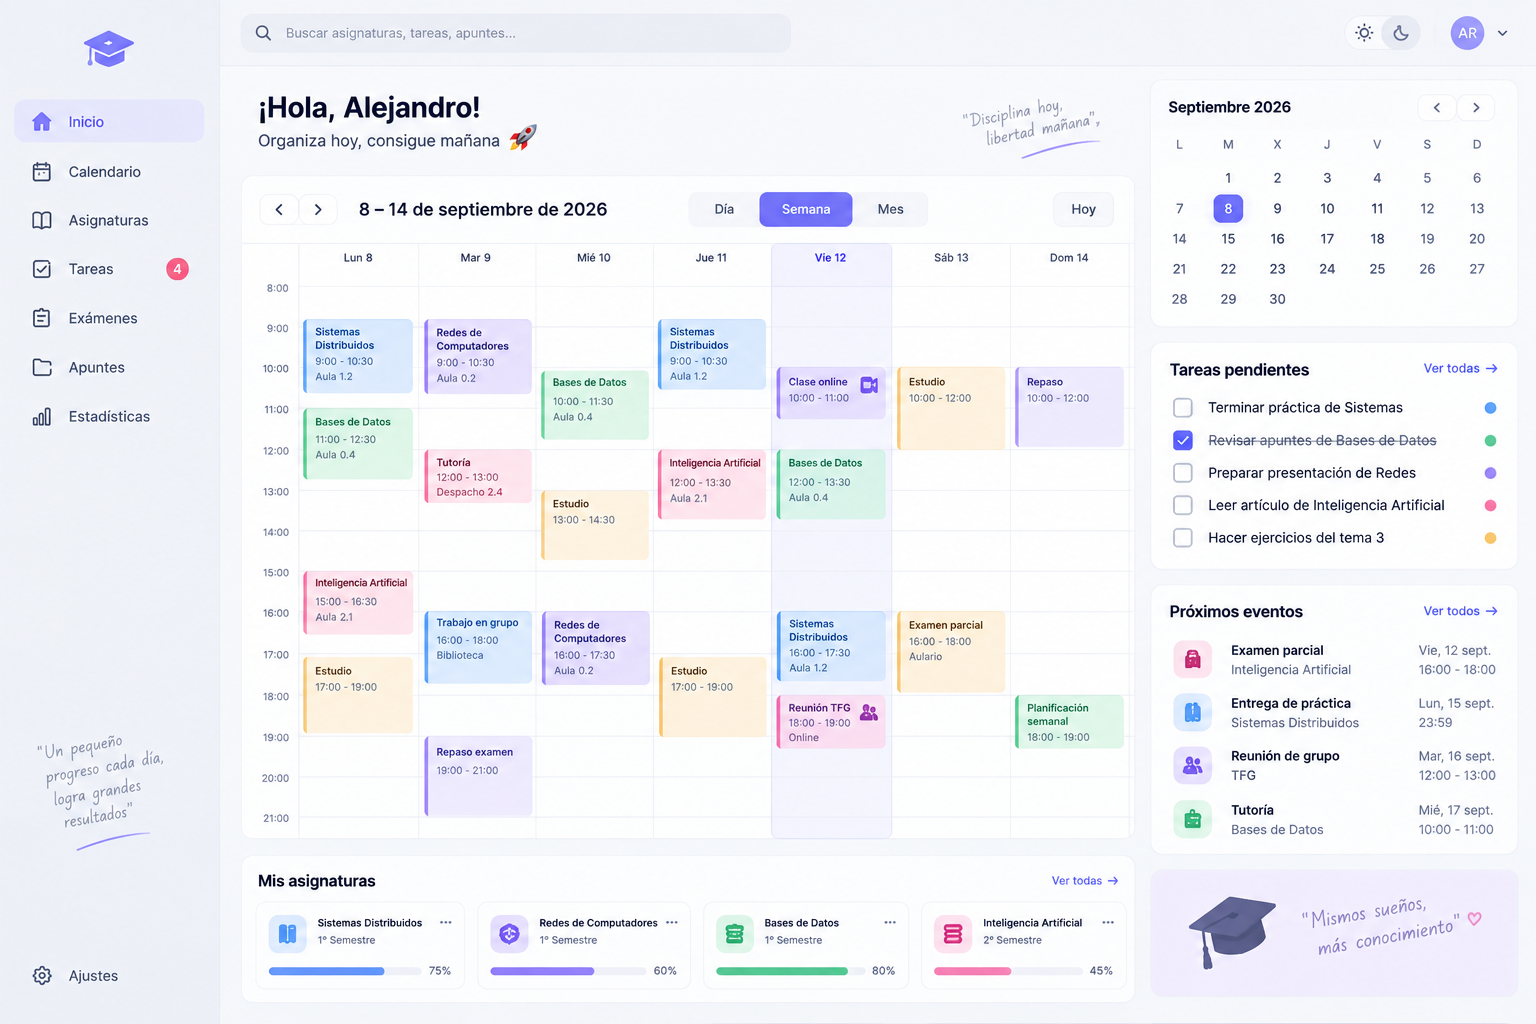
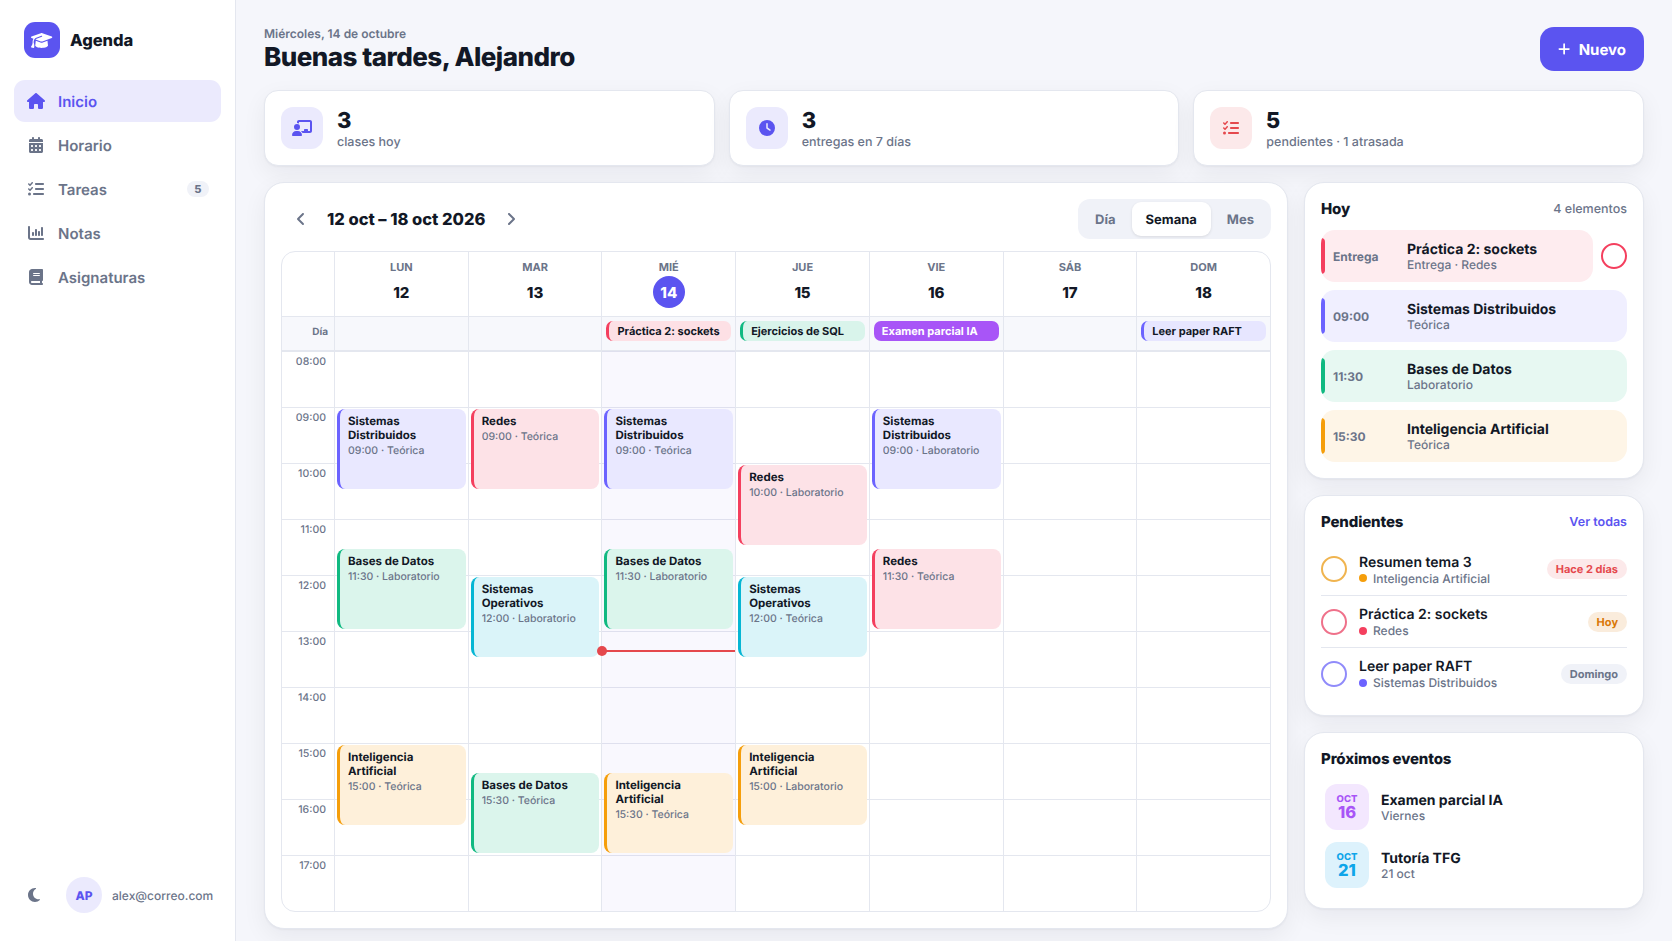
Añade Savia y Yincana PC, vídeos y mejoras del carrusel

diff --git a/index.html b/index.html
@@ -693,6 +693,22 @@
 
                 <div class="mi-project-card ticket-sales-container featured-project-card">
                     <div class="banner-image-container">
+                        <img src="images/savia.png" alt="Savia" loading="lazy">
+                    </div>
+                    <h5 class="mt-1">Savia</h5>
+                    <span class="project-badge"><i class="fa-solid fa-star" aria-hidden="true"></i> Proyecto destacado</span>
+                    <p class="mb-1">Aplicación web progresiva para gestionar las finanzas personales, incluso sin conexión.</p>
+                    <p class="project-date mb-1">2026 - 2026</p>
+                    <div class="featured-tech-list" aria-label="Tecnologías principales de Savia">
+                        <span><i class="fa-brands fa-angular" aria-hidden="true"></i> Angular</span>
+                        <span><i class="fa-solid fa-code" aria-hidden="true"></i> TypeScript</span>
+                        <span><i class="fa-solid fa-fire" aria-hidden="true"></i> Firebase</span>
+                    </div>
+                    <button class="project-info-button" type="button" data-bs-toggle="modal" data-bs-target="#saviaModal"><i class="fa-solid fa-up-right-from-square" aria-hidden="true"></i> Más info</button>
+                </div>
+
+                <div class="mi-project-card ticket-sales-container featured-project-card">
+                    <div class="banner-image-container">
                         <img src="images/balance.png" alt="Pareja Balance" loading="lazy">
                     </div>
                     <h5 class="mt-1">Pareja Balance</h5>
@@ -707,21 +723,6 @@
                     <button class="project-info-button" type="button" data-bs-toggle="modal" data-bs-target="#balanceModal"><i class="fa-solid fa-up-right-from-square" aria-hidden="true"></i> Más info</button>
                 </div>
 
-                <div class="mi-project-card ticket-sales-container featured-project-card">
-                    <div class="banner-image-container">
-                        <img src="images/agenda.png" alt="Agenda Académica" loading="lazy">
-                    </div>
-                    <h5 class="mt-1">Agenda Académica</h5>
-                    <span class="project-badge project-badge-personal"><i class="fa-solid fa-lightbulb" aria-hidden="true"></i> Proyecto personal</span>
-                    <p class="mb-1">Aplicación web progresiva diseñada para gestionar la vida académica.</p>
-                    <p class="project-date mb-1">2025 - 2025</p>
-                    <div class="featured-tech-list" aria-label="Tecnologías principales de Agenda Académica">
-                        <span><i class="fa-solid fa-code" aria-hidden="true"></i> TypeScript</span>
-                        <span><i class="fa-brands fa-react" aria-hidden="true"></i> Next.js</span>
-                        <span><i class="fa-solid fa-fire" aria-hidden="true"></i> Firebase</span>
-                    </div>
-                    <button class="project-info-button" type="button" data-bs-toggle="modal" data-bs-target="#agendaModal"><i class="fa-solid fa-up-right-from-square" aria-hidden="true"></i> Más info</button>
-                </div>
             </div>
 
             <div class="portfolio-group portfolio-group-secondary">
@@ -732,6 +733,40 @@
 
                 <div class="mi-carousel-container" data-carousel="projects">
                     <div class="mi-carousel-track" id="miCarouselTrack">
+                    <div class="mi-carousel-item">
+                        <div class="mi-project-card ticket-sales-container">
+                            <div class="banner-image-container">
+                                <img src="images/yincana-pc-portfolio.png" alt="Yincana PC" loading="lazy">
+                            </div>
+                            <h5 class="mt-1">Yincana PC</h5>
+                            <span class="project-badge project-badge-personal"><i class="fa-solid fa-lightbulb" aria-hidden="true"></i> Proyecto personal</span>
+                            <p class="project-description mb-1">Aplicación web progresiva para gestionar yincanas de informática.</p>
+                            <p class="project-date mb-1">2026 - 2026</p>
+                            <div class="featured-tech-list" aria-label="Tecnologías principales de Yincana PC">
+                                <span><i class="fa-brands fa-angular" aria-hidden="true"></i> Angular</span>
+                                <span><i class="fa-solid fa-code" aria-hidden="true"></i> TypeScript</span>
+                                <span><i class="fa-solid fa-fire" aria-hidden="true"></i> Firebase</span>
+                            </div>
+                            <button class="project-info-button" type="button" data-bs-toggle="modal" data-bs-target="#yincanaModal"><i class="fa-solid fa-up-right-from-square" aria-hidden="true"></i> Más info</button>
+                        </div>
+                    </div>
+                    <div class="mi-carousel-item">
+                        <div class="mi-project-card ticket-sales-container">
+                            <div class="banner-image-container">
+                                <img src="images/agenda.png" alt="Agenda Académica" loading="lazy">
+                            </div>
+                            <h5 class="mt-1">Agenda Académica</h5>
+                            <span class="project-badge project-badge-personal"><i class="fa-solid fa-lightbulb" aria-hidden="true"></i> Proyecto personal</span>
+                            <p class="project-description mb-1">Aplicación web progresiva diseñada para gestionar la vida académica.</p>
+                            <p class="project-date mb-1">2025 - 2025</p>
+                            <div class="featured-tech-list" aria-label="Tecnologías principales de Agenda Académica">
+                                <span><i class="fa-solid fa-code" aria-hidden="true"></i> TypeScript</span>
+                                <span><i class="fa-brands fa-react" aria-hidden="true"></i> Next.js</span>
+                                <span><i class="fa-solid fa-fire" aria-hidden="true"></i> Firebase</span>
+                            </div>
+                            <button class="project-info-button" type="button" data-bs-toggle="modal" data-bs-target="#agendaModal"><i class="fa-solid fa-up-right-from-square" aria-hidden="true"></i> Más info</button>
+                        </div>
+                    </div>
                     <div class="mi-carousel-item">
                         <div class="mi-project-card ticket-sales-container">
                             <div class="banner-image-container">
@@ -1271,7 +1306,43 @@
                         <span><i class="fa-solid fa-network-wired" aria-hidden="true"></i> IoT</span>
                     </div>
                     <h4>Enlaces</h4>
-                    <p class="mb-0">Por privacidad de la empresa, no se puede publicar ni facilitar acceso al proyecto.</p>
+                    <p>Por privacidad de la empresa, no se puede publicar ni facilitar acceso al proyecto.</p>
+                    <p>El vídeo presenta una demostración independiente, sin mostrar contenido de la empresa.</p>
+                    <div class="modal-link-list">
+                        <a href="https://youtu.be/oPxf_APcXtI" target="_blank" rel="noopener noreferrer"><i class="fa-brands fa-youtube" aria-hidden="true"></i> Ver vídeo</a>
+                    </div>
+                </div>
+            </div>
+        </div>
+    </div>
+
+    <div class="modal fade project-modal" id="saviaModal" tabindex="-1" aria-labelledby="saviaModalLabel" aria-hidden="true">
+        <div class="modal-dialog modal-dialog-centered modal-lg">
+            <div class="modal-content">
+                <div class="modal-header">
+                    <h3 class="modal-title" id="saviaModalLabel">Savia</h3>
+                    <button type="button" class="btn-close" data-bs-dismiss="modal" aria-label="Cerrar"></button>
+                </div>
+                <div class="modal-body">
+                    <img class="project-modal-image" src="images/savia.png" alt="Savia" loading="lazy">
+                    <p>Aplicación web progresiva para gestionar las finanzas personales, incluso sin conexión.</p>
+                    <p>Savia permite organizar cuentas y tarjetas, registrar ingresos y gastos por categorías, definir objetivos de ahorro y gestionar movimientos recurrentes. Incluye estadísticas, conciliación e importación de datos desde Money Pro en CSV y PDF.</p>
+                    <p>Está desarrollada con Angular y TypeScript, con Firebase Authentication para el acceso, Cloud Firestore para la persistencia y Firebase Hosting para el despliegue. También permite registrar pagos de Apple Pay mediante Atajos de iOS y ofrece un modo demo con datos locales en el navegador.</p>
+                    <p>2026 - 2026</p>
+                    <h4>Tecnología</h4>
+                    <div class="modal-tech-list">
+                        <span><i class="fa-brands fa-angular" aria-hidden="true"></i> Angular</span>
+                        <span><i class="fa-solid fa-code" aria-hidden="true"></i> TypeScript</span>
+                        <span><i class="fa-solid fa-fire" aria-hidden="true"></i> Firebase Authentication</span>
+                        <span><i class="fa-solid fa-database" aria-hidden="true"></i> Cloud Firestore</span>
+                        <span><i class="fa-solid fa-cloud" aria-hidden="true"></i> Firebase Hosting</span>
+                        <span><i class="fa-solid fa-mobile-screen-button" aria-hidden="true"></i> PWA</span>
+                    </div>
+                    <h4>Enlaces</h4>
+                    <div class="modal-link-list">
+                        <a href="https://github.com/AlejandroRodriguez1998/SaviaFinance" target="_blank" rel="noopener noreferrer"><i class="fa-brands fa-github" aria-hidden="true"></i> Ver proyecto</a>
+                        <a href="https://youtu.be/7rrPFDsX_w0" target="_blank" rel="noopener noreferrer"><i class="fa-brands fa-youtube" aria-hidden="true"></i> Ver vídeo</a>
+                    </div>
                 </div>
             </div>
         </div>
@@ -1298,12 +1369,13 @@
                         <span><i class="fa-solid fa-fire" aria-hidden="true"></i> Firebase</span>
                         <span><i class="fa-solid fa-database" aria-hidden="true"></i> BBDD</span>
                         <span><i class="fa-solid fa-cloud" aria-hidden="true"></i> Vercel</span>
-                        <span><i class="fa-solid fa-mobile-screen" aria-hidden="true"></i> PWA</span>
+                        <span><i class="fa-solid fa-mobile-screen-button" aria-hidden="true"></i> PWA</span>
                     </div>
                     <h4>Enlaces</h4>
                     <div class="modal-link-list">
                         <a href="https://pareja-balance.vercel.app" target="_blank" rel="noopener noreferrer"><i class="fa-solid fa-globe" aria-hidden="true"></i> Tour aplicación</a>
                         <a href="https://github.com/AlejandroRodriguez1998/pareja-balance" target="_blank" rel="noopener noreferrer"><i class="fa-brands fa-github" aria-hidden="true"></i> Ver proyecto</a>
+                        <a href="https://youtu.be/w7O9V1EHk0k" target="_blank" rel="noopener noreferrer"><i class="fa-brands fa-youtube" aria-hidden="true"></i> Ver vídeo</a>
                     </div>
                 </div>
             </div>
@@ -1331,12 +1403,46 @@
                         <span><i class="fa-solid fa-fire" aria-hidden="true"></i> Firebase</span>
                         <span><i class="fa-solid fa-database" aria-hidden="true"></i> BBDD</span>
                         <span><i class="fa-solid fa-cloud" aria-hidden="true"></i> Vercel</span>
-                        <span><i class="fa-solid fa-mobile-screen" aria-hidden="true"></i> PWA</span>
+                        <span><i class="fa-solid fa-mobile-screen-button" aria-hidden="true"></i> PWA</span>
                     </div>
                     <h4>Enlaces</h4>
                     <div class="modal-link-list">
                         <a href="https://agenda-topaz-two.vercel.app" target="_blank" rel="noopener noreferrer"><i class="fa-solid fa-globe" aria-hidden="true"></i> Tour aplicación</a>
                         <a href="https://github.com/AlejandroRodriguez1998/Agenda" target="_blank" rel="noopener noreferrer"><i class="fa-brands fa-github" aria-hidden="true"></i> Ver proyecto</a>
+                        <a href="https://youtu.be/dipTEfL-zz4" target="_blank" rel="noopener noreferrer"><i class="fa-brands fa-youtube" aria-hidden="true"></i> Ver vídeo</a>
+                    </div>
+                </div>
+            </div>
+        </div>
+    </div>
+
+    <div class="modal fade project-modal" id="yincanaModal" tabindex="-1" aria-labelledby="yincanaModalLabel" aria-hidden="true">
+        <div class="modal-dialog modal-dialog-centered modal-lg">
+            <div class="modal-content">
+                <div class="modal-header">
+                    <h3 class="modal-title" id="yincanaModalLabel">Yincana PC</h3>
+                    <button type="button" class="btn-close" data-bs-dismiss="modal" aria-label="Cerrar"></button>
+                </div>
+                <div class="modal-body">
+                    <img class="project-modal-image" src="images/yincana-pc-portfolio.png" alt="Yincana PC" loading="lazy">
+                    <p>Aplicación web para gestionar una yincana de montaje de ordenadores con clasificación en directo.</p>
+                    <p>Los jueces organizan grupos, participantes y pruebas, registran tiempos y penalizaciones desde el móvil y consultan el historial. Cada grupo dispone de una zona privada con sus resultados y pruebas pendientes. La clasificación permanece oculta hasta que un juez la revela, con un podio animado y una pantalla de resultados para proyector.</p>
+                    <p>Está desarrollada con Angular y TypeScript, con Firebase Authentication para los accesos, Cloud Firestore para los datos en tiempo real y Firebase Hosting para el despliegue. Es una PWA instalable con permisos por rol e incluye pruebas interactivas como Simón dice y una actividad de recuperación de archivos que simula un disco fragmentado.</p>
+                    <p>2026 - 2026</p>
+                    <h4>Tecnología</h4>
+                    <div class="modal-tech-list">
+                        <span><i class="fa-brands fa-angular" aria-hidden="true"></i> Angular</span>
+                        <span><i class="fa-solid fa-code" aria-hidden="true"></i> TypeScript</span>
+                        <span><i class="fa-solid fa-fire" aria-hidden="true"></i> Firebase Authentication</span>
+                        <span><i class="fa-solid fa-database" aria-hidden="true"></i> Cloud Firestore</span>
+                        <span><i class="fa-solid fa-cloud" aria-hidden="true"></i> Firebase Hosting</span>
+                        <span><i class="fa-solid fa-mobile-screen-button" aria-hidden="true"></i> PWA</span>
+                    </div>
+                    <h4>Enlaces</h4>
+                    <div class="modal-link-list">
+                        <a href="https://yincana-pc.web.app" target="_blank" rel="noopener noreferrer"><i class="fa-solid fa-globe" aria-hidden="true"></i> Tour aplicación</a>
+                        <a href="https://github.com/AlejandroRodriguez1998/yincana-pc" target="_blank" rel="noopener noreferrer"><i class="fa-brands fa-github" aria-hidden="true"></i> Ver proyecto</a>
+                        <a href="https://youtu.be/0gK6RcRlbv0" target="_blank" rel="noopener noreferrer"><i class="fa-brands fa-youtube" aria-hidden="true"></i> Ver vídeo</a>
                     </div>
                 </div>
             </div>

diff --git a/script/i18n.js b/script/i18n.js
@@ -78,6 +78,17 @@ const translations = {
         'Rediseño arquitectónico de una plataforma de iluminación inteligente.': 'Architectural redesign of an intelligent lighting platform.',
         'Aplicación web progresiva diseñada para gestionar los gastos en pareja.': 'Progressive web app designed to manage expenses as a couple.',
         'Aplicación web progresiva diseñada para gestionar la vida académica.': 'Progressive web app designed to manage academic life.',
+        'Aplicación web progresiva para gestionar las finanzas personales, incluso sin conexión.': 'Progressive web app for managing personal finances, even offline.',
+        'Savia permite organizar cuentas y tarjetas, registrar ingresos y gastos por categorías, definir objetivos de ahorro y gestionar movimientos recurrentes. Incluye estadísticas, conciliación e importación de datos desde Money Pro en CSV y PDF.': 'Savia lets you organize accounts and cards, record income and expenses by category, set savings goals, and manage recurring transactions. It includes statistics, reconciliation, and data imports from Money Pro in CSV and PDF formats.',
+        'Está desarrollada con Angular y TypeScript, con Firebase Authentication para el acceso, Cloud Firestore para la persistencia y Firebase Hosting para el despliegue. También permite registrar pagos de Apple Pay mediante Atajos de iOS y ofrece un modo demo con datos locales en el navegador.': 'It is built with Angular and TypeScript, using Firebase Authentication for access, Cloud Firestore for persistence, and Firebase Hosting for deployment. It also supports recording Apple Pay payments through iOS Shortcuts and offers a demo mode with local browser data.',
+        'Tecnologías principales de Savia': 'Main technologies used in Savia',
+        'Aplicación web progresiva para gestionar yincanas de informática.': 'Progressive web app for managing computing competitions.',
+        'Aplicación web para gestionar una yincana de montaje de ordenadores con clasificación en directo.': 'Web application for managing a PC assembly competition with live rankings.',
+        'Los jueces organizan grupos, participantes y pruebas, registran tiempos y penalizaciones desde el móvil y consultan el historial. Cada grupo dispone de una zona privada con sus resultados y pruebas pendientes. La clasificación permanece oculta hasta que un juez la revela, con un podio animado y una pantalla de resultados para proyector.': 'Judges organize groups, participants, and challenges, record times and penalties from their phones, and review the history. Each group has a private area with its results and pending challenges. The rankings remain hidden until a judge reveals them, with an animated podium and a results screen for a projector.',
+        'Está desarrollada con Angular y TypeScript, con Firebase Authentication para los accesos, Cloud Firestore para los datos en tiempo real y Firebase Hosting para el despliegue. Es una PWA instalable con permisos por rol e incluye pruebas interactivas como Simón dice y una actividad de recuperación de archivos que simula un disco fragmentado.': 'It is built with Angular and TypeScript, using Firebase Authentication for access, Cloud Firestore for real-time data, and Firebase Hosting for deployment. It is an installable PWA with role-based permissions and includes interactive challenges such as Simon Says and a file recovery activity that simulates a fragmented disk.',
+        'Tecnologías principales de Yincana PC': 'Main technologies used in Yincana PC',
+        'El vídeo presenta una demostración independiente, sin mostrar contenido de la empresa.': 'The video presents an independent demonstration without showing company content.',
+        'Ver vídeo': 'Watch video',
         'Más info': 'More info',
         'Más proyectos': 'More projects',
         'Aplicación web para crear listas de la compra y poder compartirlas.': 'Web application for creating and sharing shopping lists.',

diff --git a/script/script.js b/script/script.js
@@ -493,6 +493,16 @@ function getCarouselMaxIndex(track) {
     return getCarouselPageCount(track) - 1;
 }
 
+function getCarouselTranslate(track, index) {
+    const items = getCarouselItems(track);
+    if (!items.length) return 0;
+
+    const visibleItems = getVisibleItems();
+    const maxStart = Math.max(items.length - visibleItems, 0);
+    const start = Math.min(index * visibleItems, maxStart);
+    return -start * items[0].getBoundingClientRect().width;
+}
+
 function renderCarouselIndicators(trackId = 'miCarouselTrack') {
     const state = getCarouselState(trackId);
     const indicatorList = document.querySelector(`[data-indicators-for="${trackId}"]`);
@@ -538,14 +548,12 @@ function updateCustomCarousel(trackId = 'miCarouselTrack') {
     const firstItem = items[0];
     if (!firstItem) return;
 
-    const itemWidth = firstItem.offsetWidth;
-    const pageWidth = itemWidth * getVisibleItems();
     const maxIndex = getCarouselMaxIndex(state.track);
 
     if (state.index > maxIndex) state.index = 0;
     if (state.index < 0) state.index = maxIndex;
 
-    state.currentTranslate = -state.index * pageWidth;
+    state.currentTranslate = getCarouselTranslate(state.track, state.index);
     state.prevTranslate = state.currentTranslate;
     state.track.style.transition = 'transform 0.5s ease-in-out';
     state.track.style.transform = `translateX(${state.currentTranslate}px)`;
@@ -601,10 +609,11 @@ function setPositionByIndex(state) {
     const firstItem = state.track.querySelector('.mi-carousel-item');
     if (!firstItem) return;
 
-    state.currentTranslate = state.index * -(firstItem.offsetWidth * getVisibleItems());
+    state.currentTranslate = getCarouselTranslate(state.track, state.index);
     state.prevTranslate = state.currentTranslate;
     state.track.style.transition = 'transform 0.5s ease-out';
     setSliderPosition(state);
+    updateCarouselIndicators(state.track.id);
 }
 
 function initializeCarousel(track) {
@@ -646,10 +655,7 @@ function initializeCarousel(track) {
             const firstItem = state.track.querySelector('.mi-carousel-item');
             if (!firstItem) return;
 
-            const itemWidth = firstItem.offsetWidth;
-            const totalItemsWidth = itemWidth * getCarouselItems(state.track).length;
-            const visibleWidth = state.track.offsetWidth;
-            const maxScrollableWidth = Math.max(totalItemsWidth - visibleWidth, 0);
+            const maxScrollableWidth = -getCarouselTranslate(state.track, getCarouselMaxIndex(state.track));
             const nextTranslate = state.prevTranslate + currentPosition - state.startPos;
 
             if (nextTranslate > 0) {

diff --git a/script/terminal.js b/script/terminal.js
@@ -52,7 +52,9 @@
             projects: [
                 'Proyectos principales:',
                 '- Plataforma IoT: rediseño arquitectónico de una plataforma de iluminación inteligente.',
+                '- Savia: PWA para gestionar finanzas personales, incluso sin conexión.',
                 '- Pareja Balance: PWA para gestionar gastos en pareja.',
+                '- Yincana PC: aplicación web para gestionar pruebas, tiempos y clasificación en directo.',
                 '- Agenda Académica: PWA para organizar vida académica.',
                 '',
                 "Escribe 'open projects' para ir a la sección."
@@ -128,7 +130,9 @@
             projects: [
                 'Main projects:',
                 '- IoT Platform: architectural redesign of an intelligent lighting platform.',
+                '- Savia: PWA for managing personal finances, even offline.',
                 '- Pareja Balance: PWA for managing expenses as a couple.',
+                '- Yincana PC: web application for managing challenges, times, and live rankings.',
                 '- Agenda Académica: PWA for organizing academic life.',
                 '',
                 "Type 'open projects' to go to the section."
